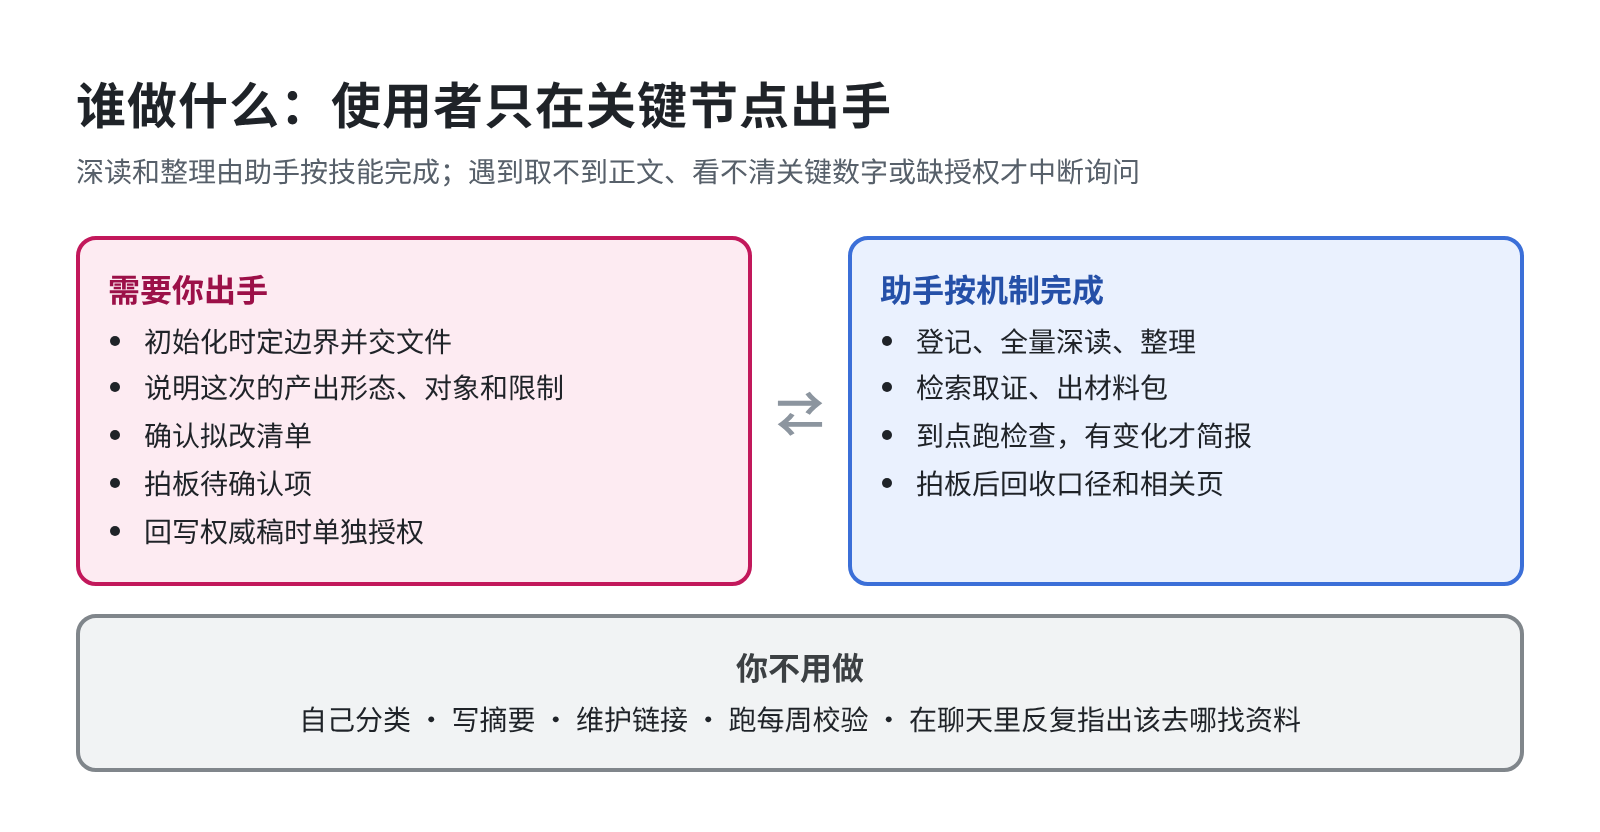
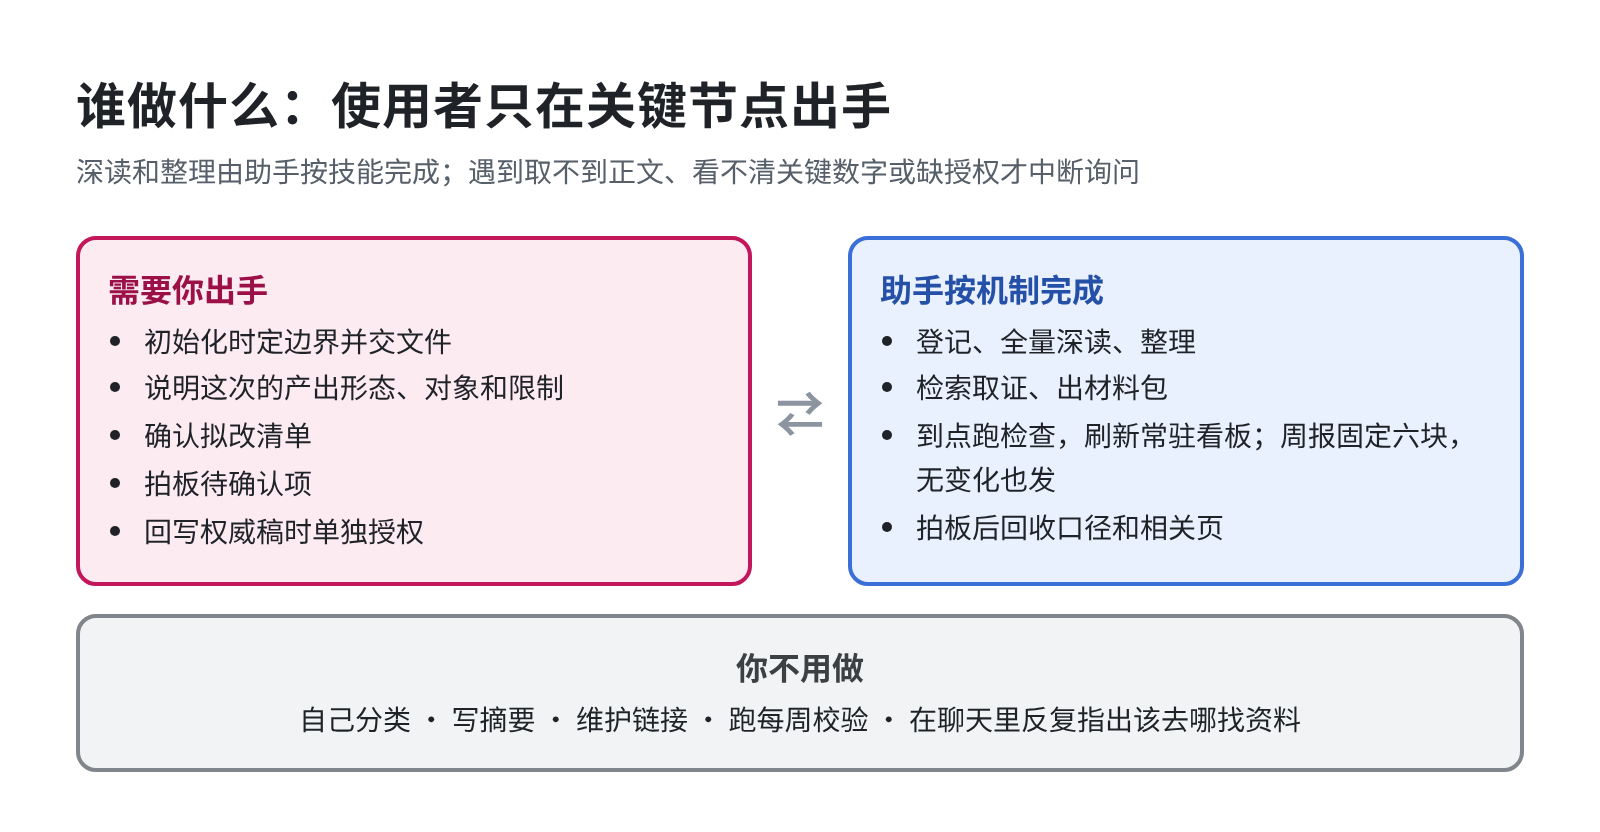
补充汇报机制：常驻体检看板与每周固定六块周报
在 README、使用说明和定期校验技能中写入通用的看板与六块周报格式（无变化也发；增量扫描有实质内容才发短讯）。同步更新配图 05、06。不含具体业务材料。

Changed region(s): [[0.5625, 0.5, 0.9062, 0.6562]]

diff --git a/docs/使用说明.md b/docs/使用说明.md
@@ -1,6 +1,6 @@
 # 业务知识库使用说明
 
-本文是给人看的完整使用说明：初始化要建立什么、之后怎么用、定期检查怎么转，以及本仓库建议配哪些图。方法细节以 `skills/` 中四个技能正文为准。整理于 2026-11-13。
+本文是给人看的完整使用说明：初始化要建立什么、之后怎么用、定期检查怎么转，以及本仓库建议配哪些图。方法细节以 `skills/` 中四个技能正文为准。整理于 2026-11-13；汇报机制（常驻看板与每周六块周报）补于 2026-11-14。
 
 本仓库只存方法，不存某个业务的机密材料。
 
@@ -39,7 +39,7 @@ flowchart TB
 
 ### 1. 核心文件骨架
 
-契约和导航：`知识库契约`、`用法目录`、`来源与学习台账`、`变更日志`、`关系图谱`。
+契约和导航：`知识库契约`、`用法目录`、`来源与学习台账`、`变更日志`、`关系图谱`、`体检看板`，并预留周报目录。
 
 事实层：`业务图景`、`能力与边界`；并预留 `客户与市场`、`成交与履约`、`内部系统`、`经营节奏` 的位置，有材料再补正文。
 
@@ -86,8 +86,10 @@ flowchart TB
 | 价格或对外承诺变更后的立即复审 | 新材料改到了这类主张时自动做 | 把规则写入契约，并核对该主张的下游依赖 |
 | 拍板后回收 | 你完成拍板后自动做 | 把规则写入契约：待确认改为现行或禁止，同步改相关页 |
 | 固定资料空间的增量扫描 | 按约定周期到点执行 | 问清空间位置和周期，创建例行；没有新材料就记「无增量」 |
-| 每周关系与口径校验 | 每周到点执行 | 问清检查日，创建例行；无实质变化不打扰你 |
+| 每周关系与口径校验 | 每周到点执行 | 问清检查日，创建例行；结果写入当周周报，不另发一套「有变化才出」的简报 |
 | 定期体检（断链、未读却标已读、双台账等） | 可并入每周校验，或另定更长周期 | 写进入口和例行，不要遗漏 |
+| 常驻体检看板 | 每次例行刷新 | 初始化时建立看板页，之后打开就能看当前状态，不必等周报 |
+| 每周固定六块周报 | 每周到点出具，无论有没有变化都发 | 没有变化的块一行带过。增量扫描只在有实质内容时发短讯，汇总进入这份周报 |
 
 事件触发的检查和到点执行的检查要一起立好：
 
@@ -107,9 +109,21 @@ flowchart TB
     C2[每周关系与口径校验]
     C3[定期体检，可并入周检]
   end
+  subgraph report [汇报，到点检查的固定产出]
+    R1[常驻体检看板，每次例行刷新]
+    R2[每周固定六块周报，无变化也发]
+  end
+  cron --> report
 ```
 
 </details>
+
+到点检查的固定产出是两样，初始化时就要立好，不要等用的时候再临时写一份简报：
+
+- **常驻体检看板**：一张随时可打开的当前状态页，每次例行都刷新。
+- **每周固定六块周报**：无论有没有变化都写、都发；没有变化的块一行带过。六块固定顺序：①总体状态（一句话健康判断，以及各用法就绪度：A 可直接用 / B 材料够、缺入口或门 / C 材料散、缺核心页）；②本周知识进账（新学了哪些、哪些已编进核心页、学了还没编译的积压）；③更新与变化（事实页或口径改动，主张登记册状态变化）；④异常（例行失败与补跑、断链、未读标已读、两页说法不一、敏感拦截、同步冲突）；⑤你的待办（需拍板事项按急缓排序，每条写为什么需要使用者、不拍会卡住什么；对使用者批注逐条回复）；⑥业务洞察（趋势、矛盾、机会；每条标来源，事实与推断分开）。洞察不等于现行口径，不自动进入主张登记册。
+
+增量扫描类例行只在有实质内容时发短讯，该周汇总统一进入这份周报。
 
 初始化还要向你确认四件边界，外加两件检查相关的事：这个业务是什么、权威资料在哪、口径由谁拍板、眼下主要用哪几种用法；以及固定资料空间在哪、检查希望在什么时间跑。然后你把现有文件交来。
 
@@ -135,7 +149,7 @@ flowchart TB
 
 ### 到了检查日
 
-助手按例行跑增量扫描或每周校验。有实质变化才给你简报，并列出待拍板项；没有变化不会打扰你。
+助手按例行跑增量扫描或每周校验，并刷新常驻体检看板。每周出具一份固定六块周报，没有变化也发，没有变化的块一行带过。增量扫描只在有实质内容时发短讯，汇总进入当周周报。
 
 ### 你要做的，和不用做的
 
@@ -215,7 +229,7 @@ flowchart LR
 | 必配 | 学习入库流水线（`03`） | 从交文件到拟改清单，确认前不写入现行 | 防止把「已经学过」理解成「已经可以对外讲」 |
 | 必配 | 检索取证路径（`04`） | 从用法目录一路回到原文，以及未经编译材料怎么标 | 解决「按一个用法时该找哪些资料」 |
 | 必配 | 使用者出手节点（`05`） | 哪些事必须你做，哪些事助手按机制做完 | 避免初始化时误以为要自己维护库 |
-| 必配 | 定期检查分层（`06`） | 哪些是事件触发，哪些是到点例行 | 避免只建了文件、没有检查日程 |
+| 必配 | 定期检查分层（`06`） | 哪些是事件触发，哪些是到点例行，以及看板与每周周报是到点检查的固定产出 | 避免只建了文件、没有检查日程，或有检查却不定期说清现状 |
 
 这六张已经够把使用说明讲完整。下面三张是加分项，也已一并导出：
 

diff --git a/README.md b/README.md
@@ -6,7 +6,7 @@
 
 ![业务知识库：四层结构与八种用法](docs/images/00-总览-四层结构与八种用法.png)
 
-整理时间：2026-11-13。完整操作说明见 [使用说明](docs/使用说明.md)：初始化要一次立好文件骨架、运转机制和定期检查例行，之后按说明日常使用。
+整理时间：2026-11-13；汇报机制（常驻看板与每周六块周报）补于 2026-11-14。完整操作说明见 [使用说明](docs/使用说明.md)：初始化要一次立好文件骨架、运转机制和定期检查例行，之后按说明日常使用。
 
 ![初始化一次立好三件事](docs/images/01-初始化立起的三件事.png)
 
@@ -19,7 +19,7 @@
 1. **知识怎么分层**：原料、事实、口径、用法分成四层，不混在一个文件夹里。
 2. **知识怎么被用**：先识别八种稳定用法，再按用法去取材料、加工和输出。
 3. **知识怎么检索**：先走编译好的页面，必要时再回到原文或外部调研；加工成稿必须有使用者输入。
-4. **知识怎么更新**：学习可以批量进行，但写成「现行可讲」之前必须经过确认；之后按材料的易变程度定期校验。
+4. **知识怎么更新**：学习可以批量进行，但写成「现行可讲」之前必须经过确认；之后按材料的易变程度定期校验。检查结果写入一张常驻体检看板，并每周出具一份固定六块周报——无论有没有变化都发，没有变化的块一行带过。增量扫描若需发短讯，只在有实质内容时发，汇总进入当周周报。
 
 检索和编译的思路借鉴了 [Andrej Karpathy 的 LLM Wiki](https://gist.github.com/karpathy/442a6bf555914893e9891c11519de94f)：原文不动，先编译成可引用的页面，用目录和日志维护，定期体检。同时吸收了 [Diátaxis](https://www.diataxis.fr/)（按使用需求组织，不按资料类型组织）、销售内容治理中的主张登记与到期复审，以及「稳定知识走编译层、新材料走原文或外搜」的分层检索。明确不采用的做法是：用外网搜索去补业务死数，以及把所有文件复制进一个新中心、让副本冒充权威原文。
 
@@ -74,7 +74,7 @@
 | 业务知识库 | 进入新业务建库、交来一批资料、询问知识库怎么用，或不确定下一步时。先加载它。 | [skills/业务知识库/SKILL.md](skills/业务知识库/SKILL.md) |
 | 业务知识库-学习入库 | 登记、全量深读、处理图片和表格、抽出数据主张，并产出拟改清单。写入现行前必须确认。 | [skills/业务知识库-学习入库/SKILL.md](skills/业务知识库-学习入库/SKILL.md) |
 | 业务知识库-用法检索 | 已有知识库之后，按某一种用法取材料、封装方案、赋能、建设、竞品调研、把关或当场查询。 | [skills/业务知识库-用法检索/SKILL.md](skills/业务知识库-用法检索/SKILL.md) |
-| 业务知识库-定期校验 | 例行检查是否过时或讲错、扫描增量、拍板后回收口径，以及体检断链或「未读却标已读」。 | [skills/业务知识库-定期校验/SKILL.md](skills/业务知识库-定期校验/SKILL.md) |
+| 业务知识库-定期校验 | 例行检查是否过时或讲错、扫描增量、拍板后回收口径，以及体检断链或「未读却标已读」；刷新常驻看板，并每周出具固定六块周报。 | [skills/业务知识库-定期校验/SKILL.md](skills/业务知识库-定期校验/SKILL.md) |
 
 技能是通用模板，换一个业务也可以用。不要把某个业务的内部数字、客户信息或未公开口径写进这些文件。
 
